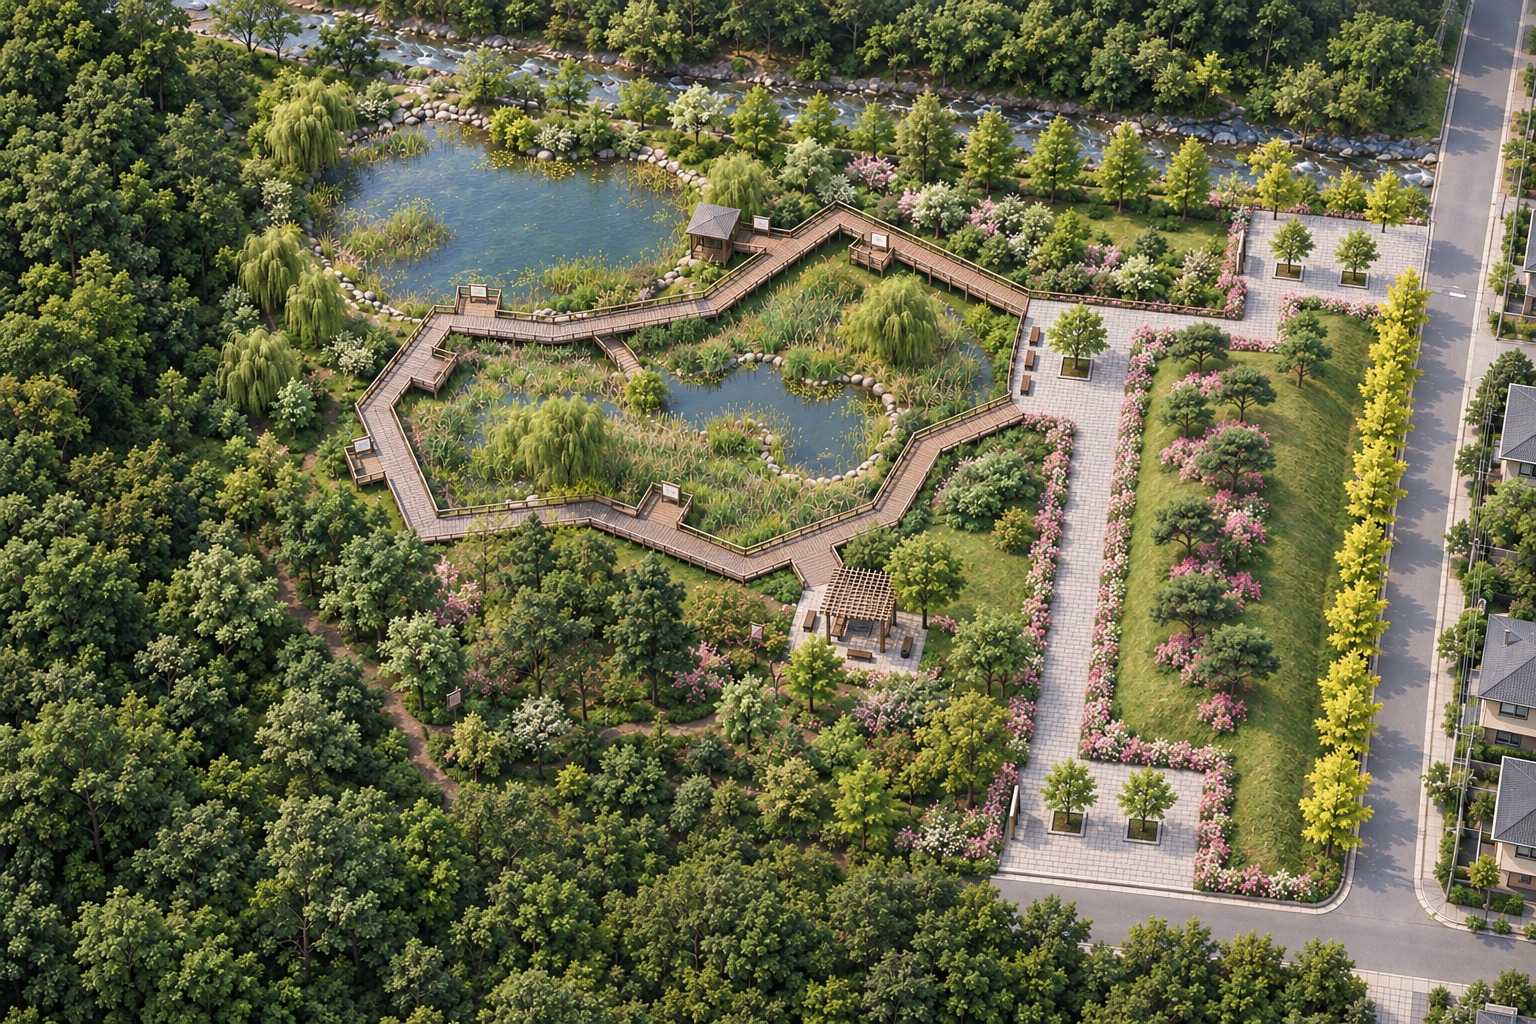
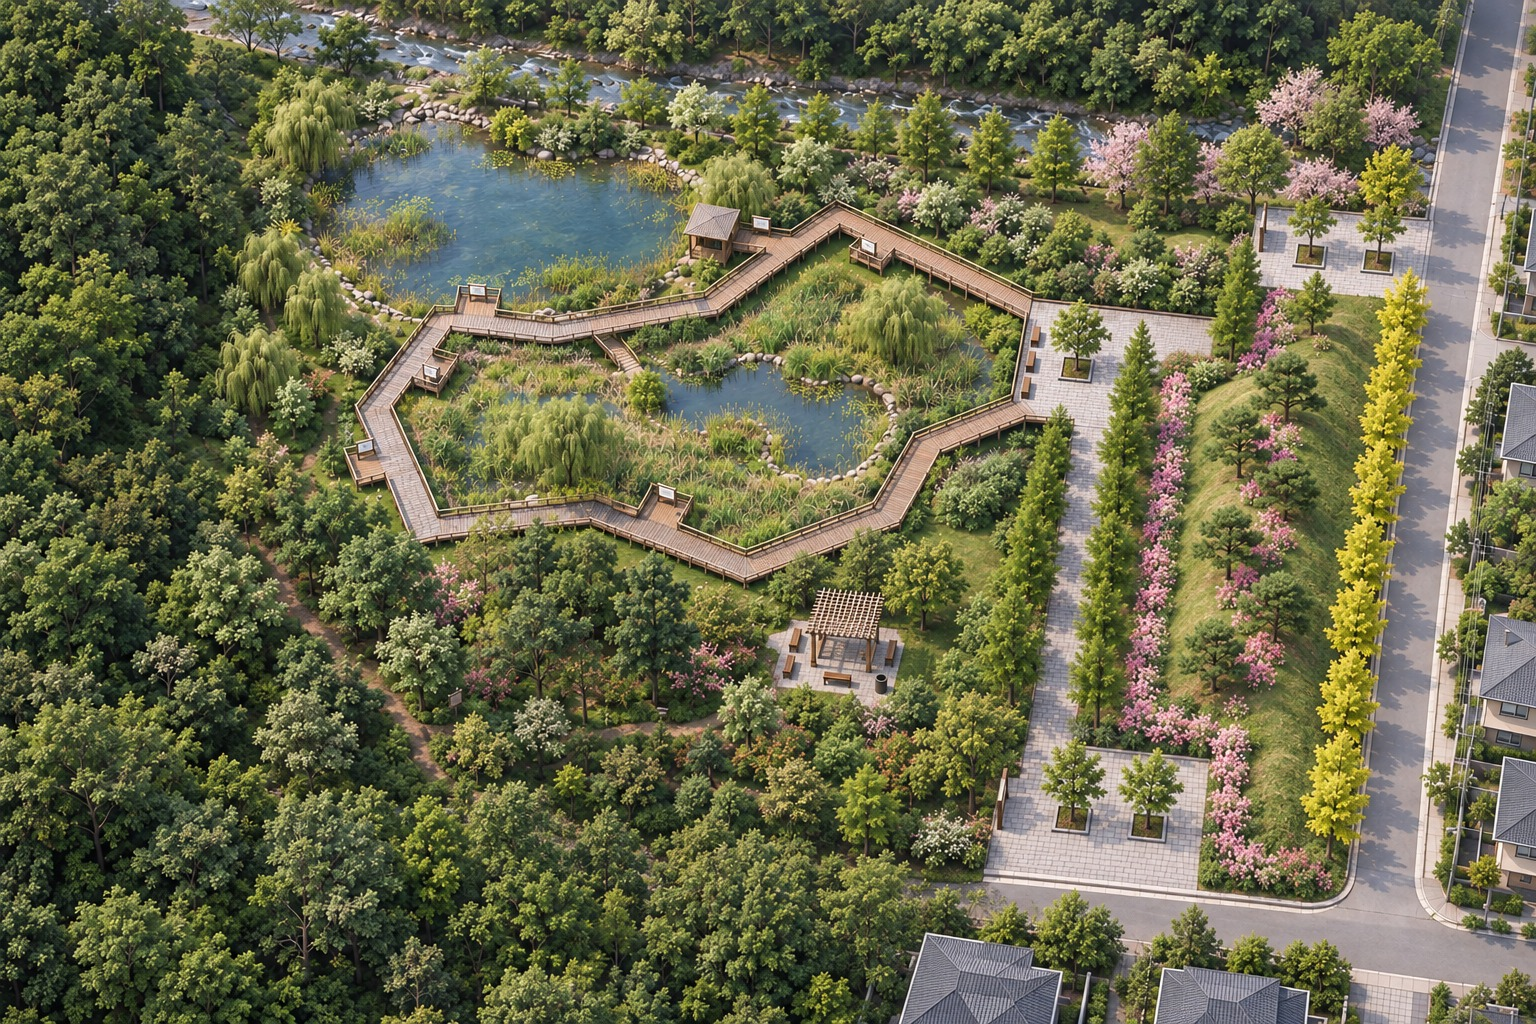
조감도·입체평면도 401: 메타세쿼이아 7주 — 붙박이 기준점으로 한 번에
"광장의 오른쪽 변을 따라 일곱 그루"는 네 회차 연속 안 먹혔다. 안내판에서
통했던 방식을 나무 열식에 처음 써 봤다.

먼저 배식도의 '7 - 메타세쿼이어 H4.0 x B8' 인출선을 확대해 끝까지 따라가
자리를 확정했다 — 그 줄은 남측 진입광장의 수목보호대 두 개 옆에서 시작해
남북 동선 포장의 동쪽 가장자리를 따라 북으로 오르는 일곱 그루이고,
'540 - 철쭉' 띠는 그 동쪽에 따로 있다. 앞서 이 줄을 철쭉으로 바꾸게 한
것이 실수였다.

그 다음 좌표 대신 그림에 이미 있는 물건으로 짚었다 — "나무가 심긴 네모
수목보호대 두 개가 박힌 포장을 찾아, 그 옆에서 시작해 포장 가장자리를 따라
북으로" + "세어서 하나, 둘, 셋, 넷, 다섯, 여섯, 일곱". 두 그림 모두 한 번에
일곱 그루가 제자리에 떨어져 섰다.

퇴행을 막는 문장도 함께 넣었다 — "수목보호대는 모두 다섯 개다(남측 둘 ·
북동 둘 · 모임광장 하나). 하나도 없애지 마라". 16회차에서 사라졌던 두 개가
이번에는 남았다. 북동 광장 벚나무 6 + 느티나무 3 도 들어갔다.

조감도 15회차 3053 → 18회차 2889(기준 2500).
입체평면도 26회차 1356 → 27회차 1015(기준 905). 지표는 -25% 지만 갈대·자갈·
수면·데크를 6배로 견주면 구분되지 않는다. 평행투영 유지 — 동측 도로 띠 왼끝
1353·1356·1361px, 좌변 -15px · 우변 +32px.

diff --git a/_ls_drawing_refs/401_입체평면도/content.md b/_ls_drawing_refs/401_입체평면도/content.md
@@ -1,5 +1,5 @@
 'My' 탭의 색 배치도와 '성운' 탭의 **기본설계도 · 배식설계도**를 GPT 이미지 모델
-(gpt-image-2.5-sunburst)에 주고 만든 **입체평면도**입니다(26회차).
+(gpt-image-2.5-sunburst)에 주고 만든 **입체평면도**입니다(27회차).
 
 '조감도' 탭과 달리 **원근이 없는 평행투영(축측투영)** 입니다. 멀리 있는 것도 가까이 있는 것과
 같은 크기로 그려지므로 **평면도와 그대로 견주어 볼 수 있습니다** — 주택 여덟 채가 모두 같은
@@ -81,6 +81,7 @@
 23. "판면이 비스듬히 보이고"라고 적은 탓에 모델이 **방향을 되돌려** 카메라를 마주 보게 했습니다. **방향이 최우선**임을 못박고 "좁은 옆면이 보이는 것이 맞다"로 바꾸었습니다(23회차). 선명도 1115
 24. 포장 가장자리의 **키 큰 침엽수 줄**을 모두 걷어내고 **철쭉 경계식재**(무릎 높이 꽃관목 띠)로 바꿨습니다 — 성운 배식도의 의도가 "철쭉을 경계식재로, 둔덕에는 소나무, 상부에는 벚나무, 외곽에는 은행나무"이기 때문입니다(24회차). 선명도 1308
 25·26. 24회차의 "포장 가장자리 침엽수를 **모두** 지워라"가 너무 넓어, 살아 있어야 할 것까지 지웠습니다 — 배식도의 `7 − 메타세쿼이어 H4.0 × B8` 열식과 북동 광장 둘레의 `6 − 산벚나무`·`3 − 느티나무`입니다. 범위를 **마운딩 서쪽 동선 가장자리**로 좁혀 다시 적고 벚나무·느티나무를 더했습니다(26회차). 선명도 1356
+27. 메타세쿼이아 일곱 그루는 "오른쪽 변을 따라"로는 네 번 연속 실패했습니다. 배식도 인출선을 끝까지 따라가 자리를 확정한 뒤 **그림에 이미 있는 물건(남측 광장의 수목보호대 두 개)** 을 기준점으로 삼고 "세어서 하나, 둘, … 일곱"까지 적으니 한 번에 됐습니다(27회차). 선명도 1015
 
 > 회차마다 색 배치도와 배식설계도를 첫 두 참고 그림으로 다시 주고, 앞 회차 그림을 셋째로 줍니다.
 > 마스크 부분 수정이나 그림을 손으로 자르고 돌리는 일은 하지 않습니다.
@@ -103,7 +104,7 @@
 10회차 1351·1349·1361px, 16회차 1353·1356·1361px 로 같고, 모형 왼쪽 변 기울기도
 10회차 −18px, 16회차 −16px(730px 기준)로 같습니다.
 
-## 도면과 대조 (26회차)
+## 도면과 대조 (27회차)
 
 | 항목 | 도면 | 그림 |
 | --- | --- | --- |
@@ -124,16 +125,16 @@
 | 안내판 판면 | — | ✓ 아주 연한 미색에 **읽히지 않는 흐린 무늬** — 옆 포장과 비슷한 밝기 |
 | 안내판 방향·수 | — | ✓ 진입광장 안내판은 **포장·관목 경계선과 나란히**, 광장마다 **1개씩**. 관찰데크 5 · 조류관찰소 1 은 그대로 |
 | 안내판 모양 | — | ✓ 안내판은 판의 긴 변이 **포장과 관목의 경계선과 나란**해서, 이 시점에서는 **좁은 옆면이 보입니다** — 판면이 안 보이는 것이 맞습니다. 안내판임은 **가는 다리 둘 · 판 아래의 빈 틈 · 바닥에 지는 선 판의 그림자**로 알아봅니다. 걸상은 앉는 면이 바닥 가까이 낮게 깔려 아래로 빛이 통하지 않으니, 둘이 뚜렷이 다릅니다. |
-| 배식 의도(26회차) | 철쭉을 **경계식재**로, 둔덕에는 **소나무**, 상부에는 **벚나무**, 외곽에는 **은행나무** 열식 (성운 배식도 · 철쭉 540주 H0.5×W0.6 으로 가장 많음) | ✓ 포장 가장자리의 키 큰 침엽수 줄을 모두 걷어내고 **무릎 높이 철쭉 띠**로 바꿨습니다 |
+| 배식 의도(27회차) | 철쭉을 **경계식재**로, 둔덕에는 **소나무**, 상부에는 **벚나무**, 외곽에는 **은행나무** 열식 (성운 배식도 · 철쭉 540주 H0.5×W0.6 으로 가장 많음) | ✓ 포장 가장자리의 키 큰 침엽수 줄을 모두 걷어내고 **무릎 높이 철쭉 띠**로 바꿨습니다 |
 | 글자 | 없음 | ✓ |
 
-남은 차이는 셋입니다. ⓪ **남측 진입광장 동쪽 변의 메타세쿼이아가 한 그루뿐**입니다(배식도는 7주). "오른쪽 변을 따라 일곱 그루"라고 두 회차에 걸쳐 적었으나 모델이 자리와 수를 맞추지 못했습니다. ① **저수지가 도면보다 조금 동쪽·넓습니다**(도면 부지 폭의 14~44%, 그림 약 19~50%). ② **남측 도로가 55% 지점에서 시작**합니다(도면 50%).
+남은 차이는 셋입니다. ⓪ 동선 **서쪽에도 메타세쿼이아 줄이 하나 더** 섰습니다 — 도면에는 동쪽 한 줄뿐입니다. ① **저수지가 도면보다 조금 동쪽·넓습니다**(도면 부지 폭의 14~44%, 그림 약 19~50%). ② **남측 도로가 55% 지점에서 시작**합니다(도면 50%).
 
-비용은 26장 약 $1.43 입니다(16~26회차만 `xhigh` 품질이라 장당 $0.074).
+비용은 27장 약 $1.50 입니다(16~27회차만 `xhigh` 품질이라 장당 $0.074).
 
-## 프롬프트 — 마지막 회차(26회차, 참고: 색 배치도 + 배식설계도 + 13회차 그림)
+## 프롬프트 — 마지막 회차(27회차, 참고: 색 배치도 + 배식설계도 + 13회차 그림)
 
-13회차 그림을 함께 주고 고칠 넷만 적은 것입니다. 1~25회차 프롬프트는 뺐습니다.
+13회차 그림을 함께 주고 고칠 넷만 적은 것입니다. 1~26회차 프롬프트는 뺐습니다.
 
     The FIRST attached image is the colour-coded site plan of a small Korean ecological park. The SECOND is its hand-drawn planting plan. The THIRD attached image is a PHOTOREALISTIC axonometric render of the same park. Its LAYOUT, its CAMERA, its PARALLEL PROJECTION, its MATERIALS, its TEXTURES, its LIGHTING and every one of its objects are CORRECT and must be reproduced exactly. It stays photorealistic.
 
@@ -176,17 +177,15 @@
 
     DO NOT TOUCH THE BOARDS ON THE BOARDWALK. The 5 small boards on the 5 timber viewing platforms and the 1 board beside the bird-watching hut are ALREADY RIGHT - each stands upright and runs along its own deck rail. Leave their shape, direction, position and size exactly as they are.
 
-    FIX 5 — BESIDE THE MOUND, KEEP THE AZALEAS. Along the edge of the straight block-paved path where it runs beside the long grassy mound, and along the mound's own edges, the planting is a dense BAND OF LOW FLOWERING SHRUBS - AZALEAS, knee high, reading from above as a LOW FLAT RIBBON COVERED IN PINK AND WHITE BLOSSOM. No tall conical conifer stands along THAT stretch of path. This is already correct - reproduce it exactly.
+    FIX 5 — PLANTING - FOUR THINGS, EACH IN ITS OWN PLACE. Read them one at a time; they sit side by side and are NOT the same.
 
-    FIX 5 — ALONG THE EASTERN EDGE OF THE SOUTHERN ENTRANCE PLAZA: SEVEN METASEQUOIAS.
-    The southern entrance plaza is the block-paved rectangle at the bottom that opens onto the bottom road. Along its RIGHT-HAND (eastern) edge, in the planted strip between the plaza paving and the ginkgo row by the road, plant a single row of SEVEN METASEQUOIAS running from the top of that edge to the bottom. Count them: one, two, three, four, five, six, seven. Each is a TALL DECIDUOUS CONIFER with a straight trunk, a narrow conical crown and soft feathery foliage, and each stands WELL APART from its neighbours so that grass shows between them. They are NOT a dense evergreen hedge and must NOT stand shoulder to shoulder. Do not replace them with shrubs - this row of tall trees belongs here.
+    (a) KEEP THE PINK AZALEA BAND. The long grassy mound is edged on its western side by a dense band of LOW FLOWERING SHRUBS - azaleas, knee high, reading from above as a LOW FLAT RIBBON OF PINK AND WHITE BLOSSOM. Keep it exactly as it is. Plant no tall tree inside that ribbon.
 
-    THE SOUTHERN PLAZA KEEPS EVERYTHING ELSE IT HAS: EXACTLY 2 square tree grates set into its paving, each holding one shade tree - do not remove them - and EXACTLY 1 signboard on its western edge.
+    (b) A ROW OF SEVEN TALL METASEQUOIAS BETWEEN THE PAVING AND THAT PINK BAND. Find the SOUTHERN entrance plaza - the block-paved area at the bottom that opens onto the bottom road and holds TWO SQUARE TREE GRATES side by side. Starting from beside those two grates, follow the edge of the block paving NORTHWARD, up the long straight path. In the narrow strip of grass between that paving edge and the pink azalea band, plant a row of TALL METASEQUOIAS. Count them one by one as you plant: one, two, three, four, five, six, seven - SEVEN trees. Each is a tall DECIDUOUS CONIFER with a straight trunk, a narrow conical crown and soft feathery foliage. They stand APART, about one crown's width between neighbours, so grass shows between them. They are NOT a dense evergreen hedge and must NOT touch shoulder to shoulder. This row of tall trees belongs here - do not replace it with shrubs.
 
-    FIX 5 — ROUND THE NORTH-EASTERN ENTRANCE PLAZA: SIX CHERRIES AND THREE ZELKOVAS.
-    Round the north-eastern entrance plaza plant SIX CHERRY TREES - broad-crowned deciduous trees in soft pale-pink blossom. Count them: one, two, three, four, five, six. Beside them stand THREE ZELKOVAS, tall broad-crowned deciduous shade trees. The plaza keeps EXACTLY 2 square tree grates, each holding one tree, EXACTLY 1 signboard, and the low shrub band along its northern edge.
+    (c) SIX CHERRIES AND THREE ZELKOVAS ROUND THE NORTH-EAST PLAZA. Round the north-eastern entrance plaza plant SIX CHERRY TREES - broad-crowned deciduous trees in soft pale-pink blossom. Count them: one, two, three, four, five, six. Beside them stand THREE ZELKOVAS, tall broad-crowned deciduous shade trees.
 
-    FIX 5 — EVERY SIGNBOARD KEEPS ITS EDGE-ON DIRECTION. On each entrance plaza the signboard's LONG EDGE RUNS ALONG the line where the paving meets the shrubs, parallel to it, with its back to the shrubs, so that from this viewpoint you see the board almost EDGE-ON - its narrow side faces you and its pale panel is hidden. NEVER turn a board round to face the camera. It stands on TWO SLIM LEGS with an OPEN GAP beneath it and throws the long shadow of an upright slab.
+    (d) THE FIVE TREE GRATES ALL STAY. There are FIVE square tree grates in the park, each holding one tree: TWO on the southern entrance plaza, TWO on the north-eastern entrance plaza, ONE on the gathering plaza. Count them: one, two, three, four, five. DO NOT REMOVE ANY OF THEM. Keep the seven pines on the mound, and keep the single row of yellow ginkgos along the outer boundary beside the roads.
 
     SHARPNESS — RENDER THIS FRESH AT FULL RESOLUTION AND FULL DETAIL.
     Do not retouch or resample the third image: draw the whole picture again from scratch. Every part of it must be at least as crisp and as finely detailed as the third image is — the individual leaves in every canopy, the blades and mowing stripes in the turf, the board joints and grain of the boardwalk, the joints of the block paving, the roof tiles of the houses, the pebbles at the water edge. Nothing may come out softer, blurrier, smoother or more washed out than in the third image.

diff --git a/_ls_drawing_refs/401_조감도/content.md b/_ls_drawing_refs/401_조감도/content.md
@@ -1,5 +1,5 @@
 '성운' 탭의 **답안지 II · 기본설계도**와 **답안지 III · 배식설계도**, 문제지 조건으로 만든 **입체 조감도**입니다.
-**GPT**(gpt-image-2.5-sunburst, 15회차)로 그렸습니다. 남동쪽 상공에서 북서쪽을 내려다본 시점이라 **도면의 북쪽이 그림의 위**입니다 —
+**GPT**(gpt-image-2.5-sunburst, 18회차)로 그렸습니다. 남동쪽 상공에서 북서쪽을 내려다본 시점이라 **도면의 북쪽이 그림의 위**입니다 —
 실개천이 위, 기존수림이 왼쪽, 6m 도로와 주택가가 오른쪽·아래입니다.
 
 ## 만든 방법 — 1회차 그림에서 **한 번에**
@@ -26,12 +26,13 @@
 6. 90° 를 돌리고 나니 판이 **누워** 평의자처럼 보인다는 지적이 나왔습니다(13회차). 방향은 그대로 두고 **다리 위에 곧게 선 판**으로 모양만 고쳤습니다 — 같은 그림의 갈색 평의자와 견줘 뚜렷이 달라야 한다고 적었습니다
 7. 그런데 "**미색 판면이 비스듬히 보이고**"라고 적은 탓에 모델이 판면을 보이려고 **방향을 되돌려** 카메라를 마주 보게 했습니다(사용자 지적). 14회차에서 **방향이 최우선**임을 못박고 "이 시점에서는 판의 **좁은 옆면**이 보이는 것이 맞다, 판면이 안 보여도 괜찮다"고 바꿔 적었습니다. 대신 안내판임을 알리는 것으로 **다리 둘 · 판 아래 빈 틈 · 선 판의 그림자** 셋을 요구했습니다
 8. 식재가 틀렸습니다(사용자 지적) — 포장 가장자리를 따라 **키 큰 원뿔형 침엽수 줄**이 서 있었는데, 그 자리는 **철쭉 경계식재**여야 합니다. 성운 배식도의 의도는 "철쭉을 경계식재로, 둔덕에는 소나무, 상부에는 벚나무, 외곽에는 은행나무"이고 수량표에도 철쭉이 540주로 가장 많습니다. 침엽수 줄을 모두 지우고 **무릎 높이의 낮은 꽃관목 띠**로 바꿨습니다(15회차)
+9. 그 지시가 너무 넓어 **살아 있어야 할 메타세쿼이아 열식까지 지웠습니다**. 배식도의 `7 − 메타세쿼이어` 인출선을 확대해 끝까지 따라가 보니, 그 줄은 **남측 진입광장의 수목보호대 두 개 옆에서 시작해 남북 동선 포장의 동쪽 가장자리를 따라 북으로 오르는 일곱 그루**였고, 철쭉 띠는 그 **동쪽에 따로** 있었습니다. 좌표나 "오른쪽 변" 대신 **그림에 이미 있는 물건(수목보호대 두 개)** 을 기준점으로 삼고 "세어서 하나, 둘, … 일곱"까지 적으니 16~17회차에 네 번 실패하던 것이 한 번에 됐습니다. 함께 북동 광장에 **벚나무 6 · 느티나무 3**을 심고 **수목보호대 다섯 개는 하나도 없애지 마라**를 못박았습니다(18회차)
 
 > **덧그리기는 곧 화질입니다.** 고칠 것이 생기면 마지막 그림 위에 얹지 말고, **덧그림이 적은 앞 회차로 돌아가
 > 고칠 것을 모두 한 프롬프트에 모아** 다시 그리는 편이 낫습니다. 같은 방식으로 'My' 탭 조감도와 '입체평면도'도 고쳤습니다.
 > 마스크 부분 수정이나 그림을 손으로 자르고 돌리는 일은 하지 않습니다.
 
-## 도면과 대조 (15회차)
+## 도면과 대조 (18회차)
 
 | 도면(성운 답안) | 결과 |
 | --- | --- |
@@ -48,13 +49,14 @@
 | 안내판 방향·수 | ✓ 진입광장 안내판은 **포장·관목 경계선과 나란히**, 광장마다 **1개씩**. 관찰데크 5 · 조류관찰소 1 은 그대로 |
 | 안내판 모양 | ✓ 안내판은 판의 긴 변이 **포장과 관목의 경계선과 나란**해서, 이 시점에서는 **좁은 옆면이 보입니다** — 판면이 안 보이는 것이 맞습니다. 안내판임은 **가는 다리 둘 · 판 아래의 빈 틈 · 바닥에 지는 선 판의 그림자**로 알아봅니다. 걸상은 앉는 면이 바닥 가까이 낮게 깔려 아래로 빛이 통하지 않으니, 둘이 뚜렷이 다릅니다. |
 | 배식 의도 | 철쭉을 **경계식재**로, 둔덕에는 **소나무**, 상부에는 **벚나무**, 외곽에는 **은행나무** 열식 (성운 배식도 · 철쭉 540주 H0.5×W0.6 으로 가장 많음) | ✓ 포장 가장자리의 키 큰 침엽수 줄을 모두 걷어내고 **무릎 높이 철쭉 띠**로 바꿨습니다 |
+| 배식 인출선 | `7 − 메타세쿼이어 H4.0 × B8` 인출선은 **남측 진입광장(수목보호대 2개) 옆에서 시작해 남북 동선 포장의 동쪽 가장자리를 따라 북으로 오르는 나무 줄**을 가리킵니다(배식도에서 원 7개). 그 동쪽에 `540 − 철쭉` 띠가 따로 있습니다 | ✓ 두 띠가 나란히 들어갔습니다 |
 | 글자 없음 | ✓ |
 
-비용은 15장 약 $0.84 입니다(8~15회차만 `xhigh` 품질이라 장당 $0.074).
+비용은 18장 약 $1.06 입니다(8~18회차만 `xhigh` 품질이라 장당 $0.074).
 
-## 프롬프트 — 마지막 회차(15회차, 참고: 기본설계도 + 배식설계도 + 1회차 그림)
+## 프롬프트 — 마지막 회차(18회차, 참고: 기본설계도 + 배식설계도 + 1회차 그림)
 
-1회차 그림을 함께 주고 고칠 것을 한꺼번에 적은 것입니다. 1~14회차 프롬프트는 뺐습니다.
+1회차 그림을 함께 주고 고칠 것을 한꺼번에 적은 것입니다. 1~17회차 프롬프트는 뺐습니다.
 
     The FIRST attached image is the site and facilities plan of a small Korean ecological park (north is up in the drawing). The SECOND attached image is the planting plan of the same site. These two drawings are the ground truth for WHAT is where.
 
@@ -103,16 +105,15 @@
 
     DO NOT TOUCH THE BOARDS ON THE BOARDWALK. The 5 small boards on the 5 timber viewing platforms and the 1 board beside the bird-watching hut are ALREADY RIGHT - each stands upright and runs along its own deck rail. Leave their shape, direction, position and size exactly as they are.
 
-    13. THE PAVING EDGES ARE EDGED WITH LOW AZALEAS, NOT WITH TALL CONIFERS.
-    Along the edges of the block-paved plazas and of the straight block-paved path there stand at present ROWS OF TALL CONICAL CONIFERS, packed close together like a clipped hedge of cypress. DELETE EVERY ONE OF THEM - not one tall conifer is left anywhere along any paving edge.
+    13. PLANTING - FOUR THINGS, EACH IN ITS OWN PLACE. Read them one at a time; they sit side by side and are NOT the same.
 
-    In their place plant a dense BAND OF LOW FLOWERING SHRUBS - AZALEAS. They are KNEE HIGH, less than half the height of a person, and from this viewpoint the band reads as a LOW, FLAT RIBBON COVERED IN PINK AND WHITE BLOSSOM lying against the paving. NOTHING in that band rises up like a tree, and nothing in it is a cone or a spire. These azaleas are the commonest plant in the whole scheme, so the band is broad and continuous.
+    (a) KEEP THE PINK AZALEA BAND. The long grassy mound is edged on its western side by a dense band of LOW FLOWERING SHRUBS - azaleas, knee high, reading from above as a LOW FLAT RIBBON OF PINK AND WHITE BLOSSOM. Keep it exactly as it is. Plant no tall tree inside that ribbon.
 
-    THE REST OF THE PLANTING STAYS EXACTLY AS IT IS - do not delete it and do not move it:
-      - PINES on the long grassy mound: seven of them, spreading, dark blue-green.
-      - CHERRY TREES at the upper (northern) end of the mound.
-      - GINKGOS in a single evenly spaced row along the OUTER boundary of the site beside the roads, in yellow autumn foliage.
-      - The willows and water plants at the pond edges, and the multi-layered woodland.
+    (b) A ROW OF SEVEN TALL METASEQUOIAS BETWEEN THE PAVING AND THAT PINK BAND. Find the SOUTHERN entrance plaza - the block-paved area at the bottom that opens onto the bottom road and holds TWO SQUARE TREE GRATES side by side. Starting from beside those two grates, follow the edge of the block paving NORTHWARD, up the long straight path. In the narrow strip of grass between that paving edge and the pink azalea band, plant a row of TALL METASEQUOIAS. Count them one by one as you plant: one, two, three, four, five, six, seven - SEVEN trees. Each is a tall DECIDUOUS CONIFER with a straight trunk, a narrow conical crown and soft feathery foliage. They stand APART, about one crown's width between neighbours, so grass shows between them. They are NOT a dense evergreen hedge and must NOT touch shoulder to shoulder. This row of tall trees belongs here - do not replace it with shrubs.
+
+    (c) SIX CHERRIES AND THREE ZELKOVAS ROUND THE NORTH-EAST PLAZA. Round the north-eastern entrance plaza plant SIX CHERRY TREES - broad-crowned deciduous trees in soft pale-pink blossom. Count them: one, two, three, four, five, six. Beside them stand THREE ZELKOVAS, tall broad-crowned deciduous shade trees.
+
+    (d) THE FIVE TREE GRATES ALL STAY. There are FIVE square tree grates in the park, each holding one tree: TWO on the southern entrance plaza, TWO on the north-eastern entrance plaza, ONE on the gathering plaza. Count them: one, two, three, four, five. DO NOT REMOVE ANY OF THEM. Keep the seven pines on the mound, and keep the single row of yellow ginkgos along the outer boundary beside the roads.
 
     WHAT MUST NOT CHANGE:
     - The same camera and the same true perspective: an oblique aerial view from the SOUTH-EAST looking north-west, tilted about 45 degrees, with the stream at the top of the picture. The same framing and crop, the same late-spring daylight and soft shadows, the same colour balance.
